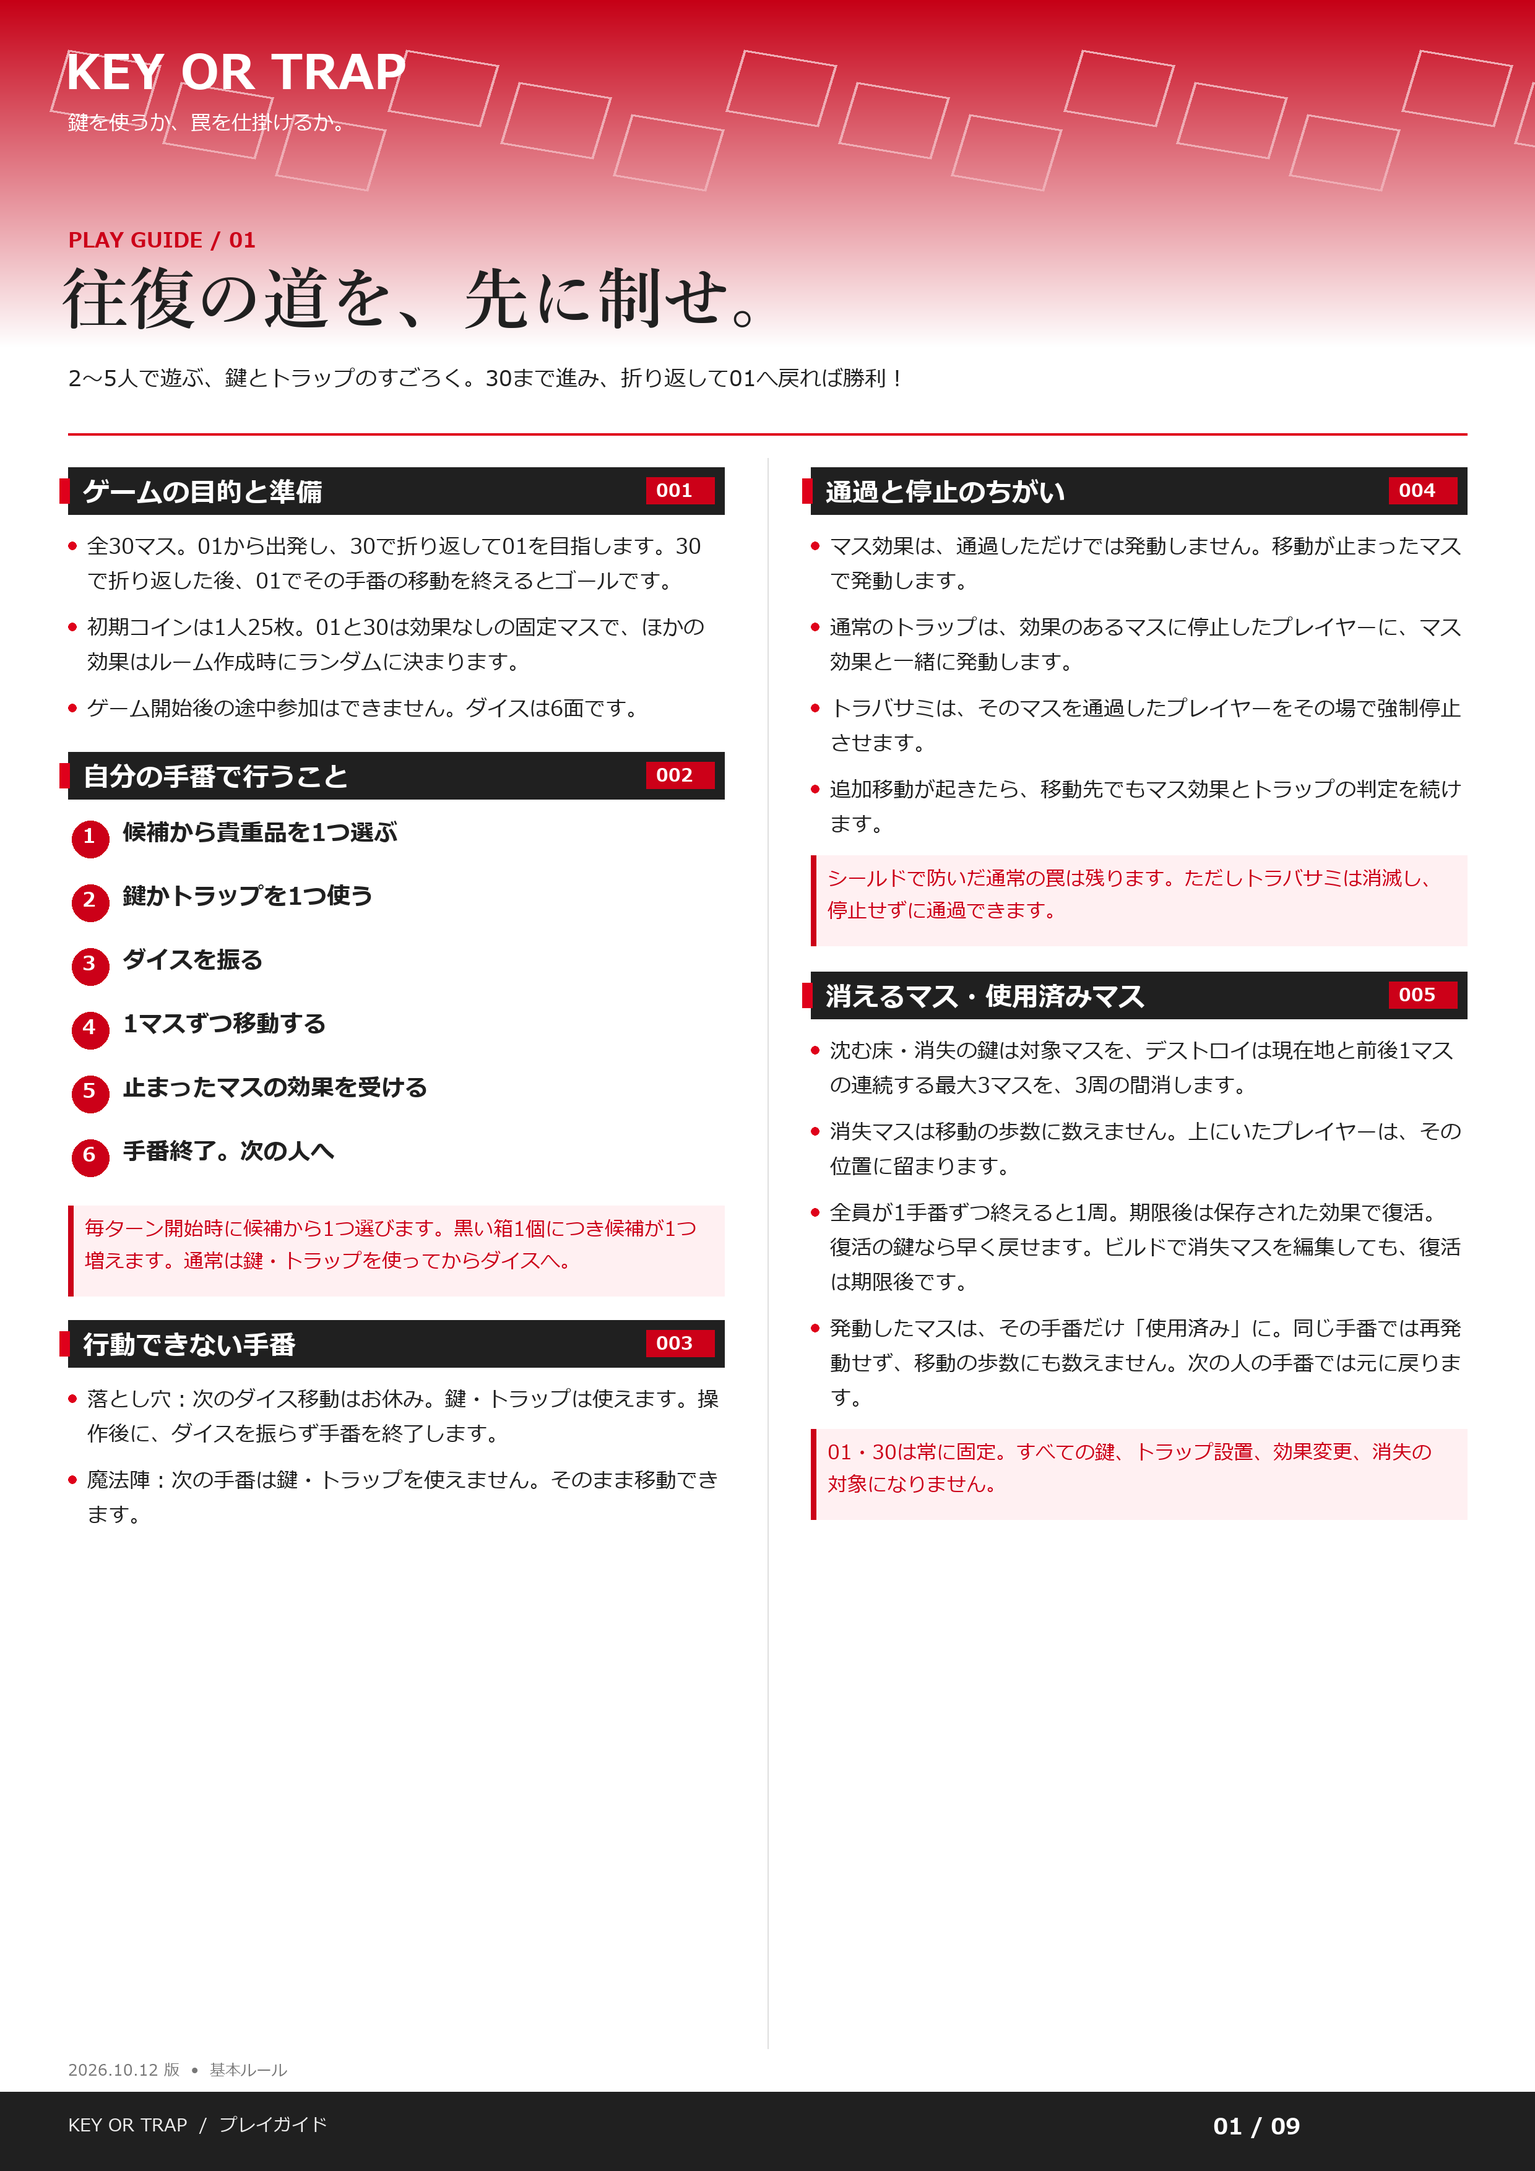
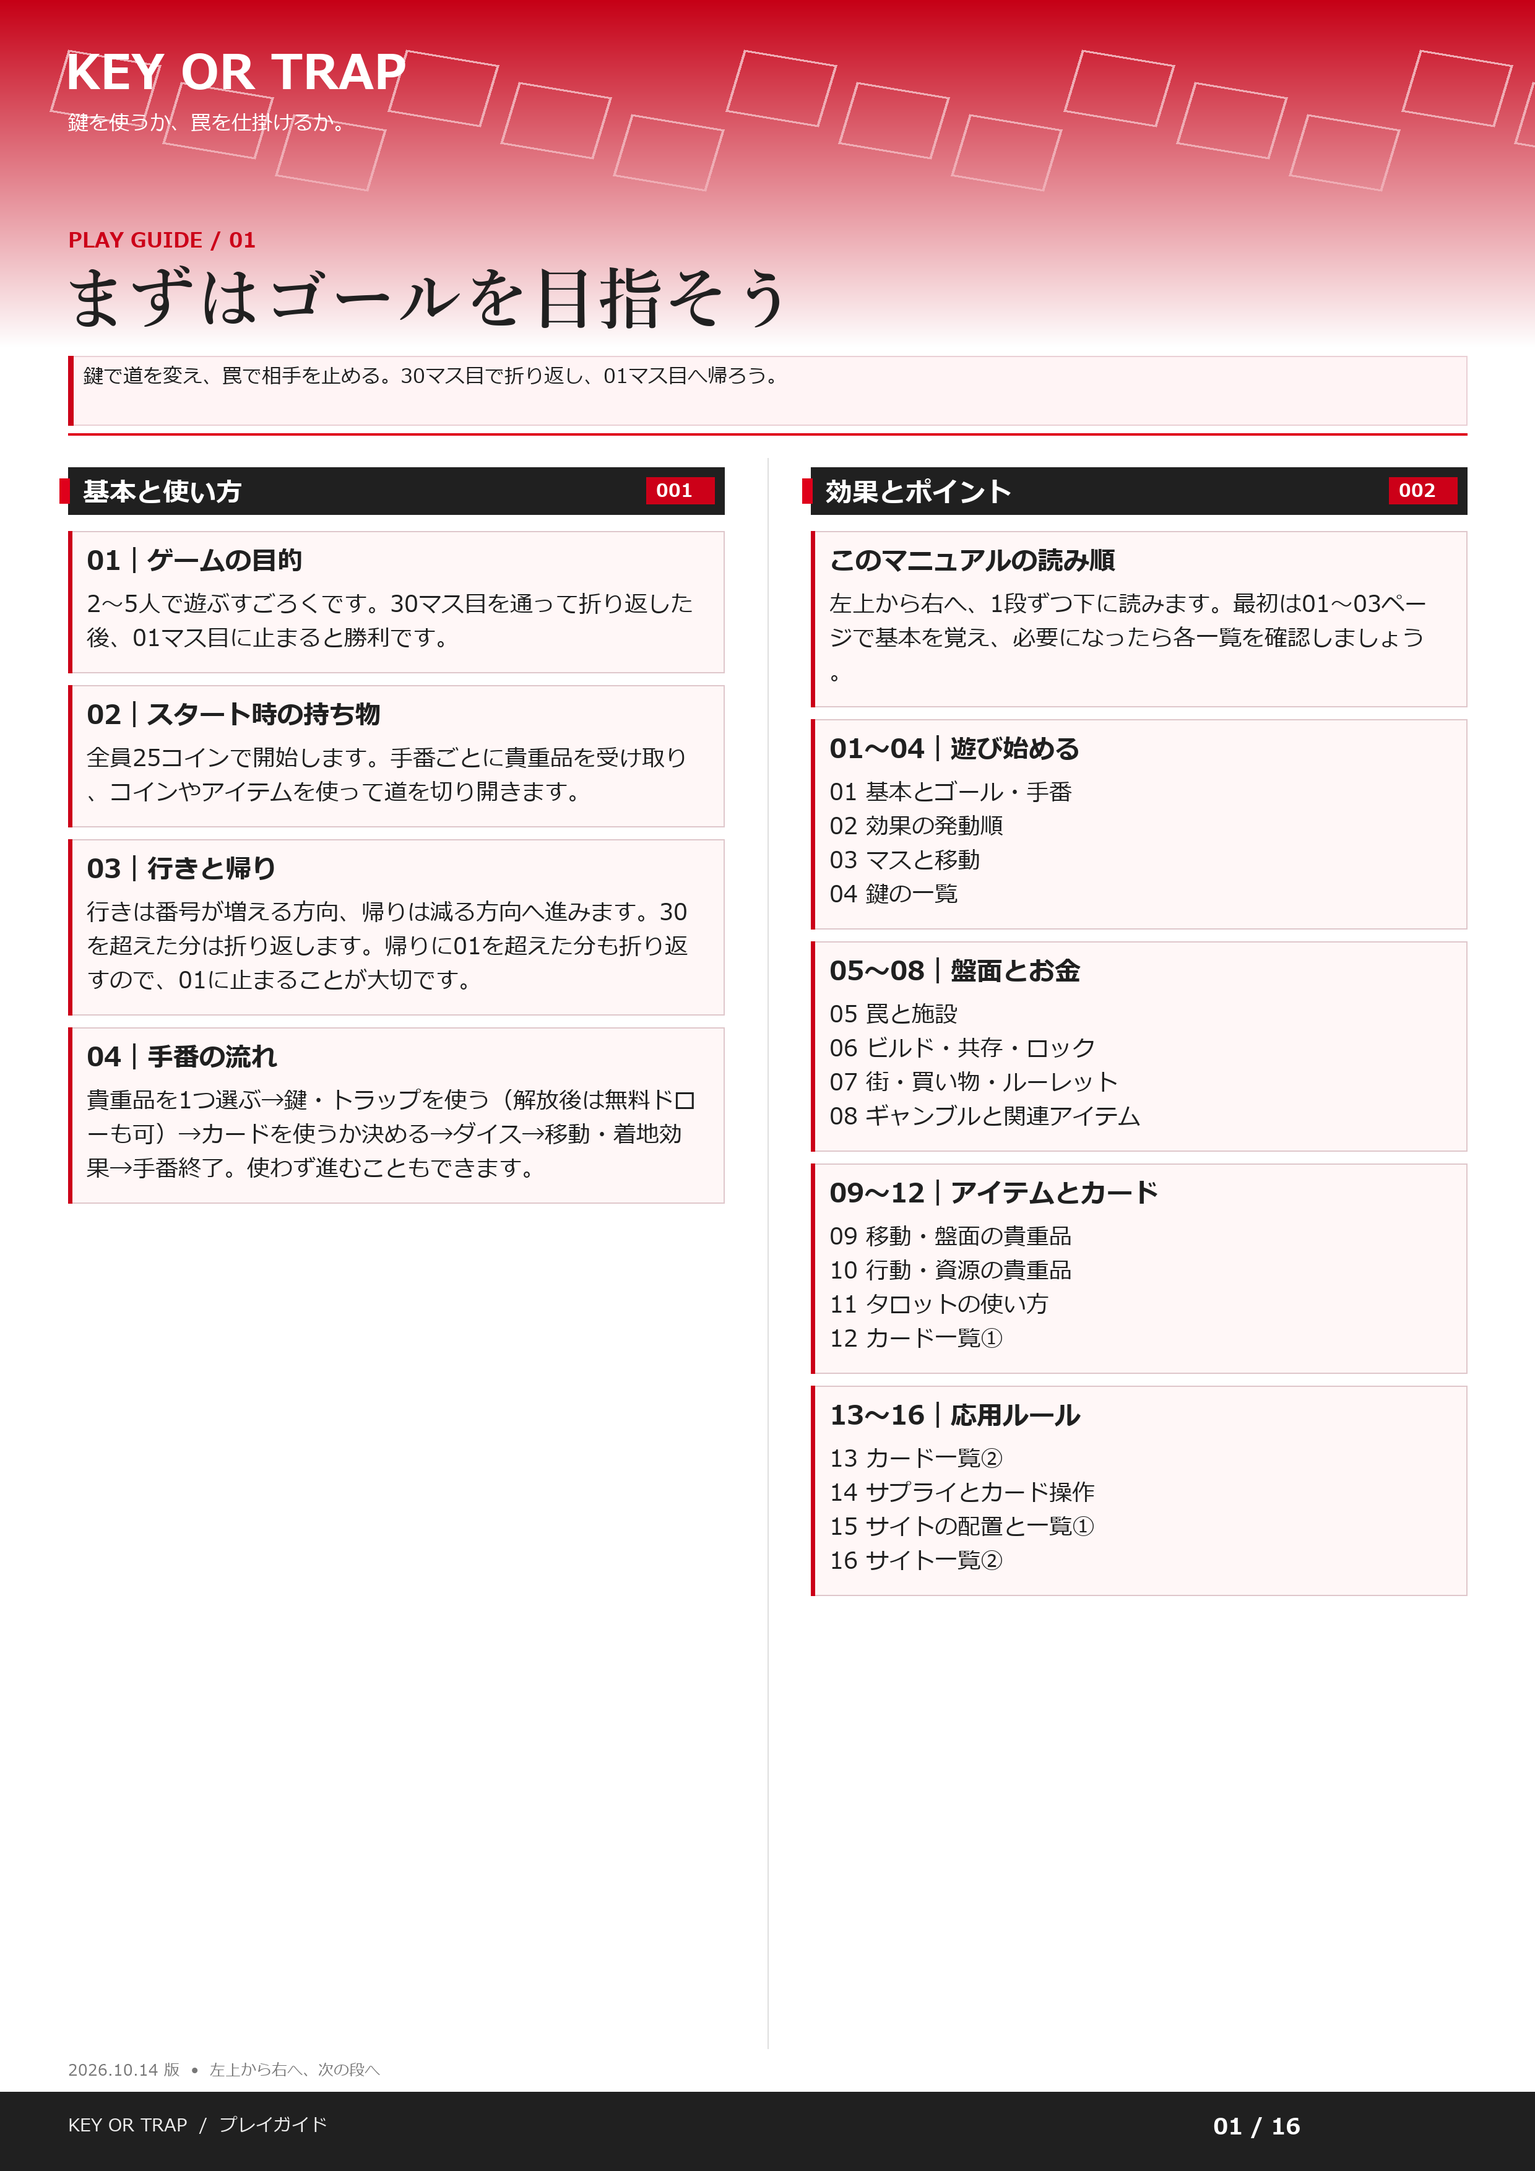
リリース予告1.4

diff --git a/KOT/manual/index.html b/KOT/manual/index.html
@@ -1,1 +1,15 @@
-<!doctype html><html lang="ja"><meta charset="utf-8"><meta name="viewport" content="width=device-width, initial-scale=1"><title>KEY OR TRAP プレイガイド</title><style>body{margin:0;background:#eee9e5;color:#222;font-family:system-ui,sans-serif}header,main{max-width:1000px;margin:auto;padding:24px}header{background:white}h1{margin:0 0 12px}nav{display:flex;gap:10px;flex-wrap:wrap}a{color:#b6001a}nav a{padding:8px;background:#fff0f2;border-radius:6px}section{margin:24px 0 40px;scroll-margin-top:16px}h2{font-size:20px}img{width:100%;height:auto;display:block;background:white;box-shadow:0 3px 15px #0002}p{line-height:1.8}</style><header><h1>KEY OR TRAP プレイガイド</h1><p>01〜03は基本編、04〜09は詳細編。画像を押すと原寸で開けます。</p><nav><a href="#page1">01 基本ルール</a><a href="#page2">02 鍵・トラップ・マス効果</a><a href="#page3">03 街とギャンブル</a><a href="#page4">04 貴重品</a><a href="#page5">05 ルーレットと購入</a><a href="#page6">06 タロットの基本</a><a href="#page7">07 カード一覧・前半</a><a href="#page8">08 カード一覧・後半</a><a href="#page9">09 固定・施設・3効果の共存</a></nav></header><main><section id="page1"><h2>01　基本ルール</h2><a href="KeyOrTrap_ルール_01.png"><img src="KeyOrTrap_ルール_01.png" alt="KOT マニュアル 01 基本ルール" loading="lazy" width="2480" height="3508"></a></section><section id="page2"><h2>02　鍵・トラップ・マス効果</h2><a href="KeyOrTrap_ルール_02.png"><img src="KeyOrTrap_ルール_02.png" alt="KOT マニュアル 02 鍵・トラップ・マス効果" loading="lazy" width="2480" height="3508"></a></section><section id="page3"><h2>03　街とギャンブル</h2><a href="KeyOrTrap_ルール_03.png"><img src="KeyOrTrap_ルール_03.png" alt="KOT マニュアル 03 街とギャンブル" loading="lazy" width="2480" height="3508"></a></section><section id="page4"><h2>04　貴重品</h2><a href="KeyOrTrap_ルール_04.png"><img src="KeyOrTrap_ルール_04.png" alt="KOT マニュアル 04 貴重品" loading="lazy" width="2480" height="3508"></a></section><section id="page5"><h2>05　ルーレットと購入</h2><a href="KeyOrTrap_ルール_05.png"><img src="KeyOrTrap_ルール_05.png" alt="KOT マニュアル 05 ルーレットと購入" loading="lazy" width="2480" height="3508"></a></section><section id="page6"><h2>06　タロットの基本</h2><a href="KeyOrTrap_ルール_06.png"><img src="KeyOrTrap_ルール_06.png" alt="KOT マニュアル 06 タロットの基本" loading="lazy" width="2480" height="3508"></a></section><section id="page7"><h2>07　カード一覧・前半</h2><a href="KeyOrTrap_ルール_07.png"><img src="KeyOrTrap_ルール_07.png" alt="KOT マニュアル 07 カード一覧・前半" loading="lazy" width="2480" height="3508"></a></section><section id="page8"><h2>08　カード一覧・後半</h2><a href="KeyOrTrap_ルール_08.png"><img src="KeyOrTrap_ルール_08.png" alt="KOT マニュアル 08 カード一覧・後半" loading="lazy" width="2480" height="3508"></a></section><section id="page9"><h2>09　固定・施設・3効果の共存</h2><a href="KeyOrTrap_ルール_09.png"><img src="KeyOrTrap_ルール_09.png" alt="KOT マニュアル 09 固定・施設・3効果の共存" loading="lazy" width="2480" height="3508"></a></section></main></html>
+<!doctype html><html lang="ja"><head><meta charset="utf-8"><meta name="viewport" content="width=device-width,initial-scale=1"><title>Key Or Trap｜次回リリース予告・プレイマニュアル</title><style>html{scroll-behavior:smooth}body{margin:0;padding:24px;background:#ede8dc;color:#26333e;font-family:Meiryo,sans-serif}h1{font-size:28px}p{line-height:1.8}nav{display:flex;flex-wrap:wrap;gap:8px;margin:24px 0}nav a{background:white;padding:8px 12px;border-radius:6px;color:#85243a;text-decoration:none}main{display:grid;grid-template-columns:repeat(4,minmax(0,1fr));gap:16px}figure{margin:0;scroll-margin-top:16px}img{width:100%;height:auto;display:block;box-shadow:0 2px 8px #0002}figcaption{font-size:13px;padding:8px 0}a:focus-visible{outline:3px solid #15868a}@media(max-width:800px){body{padding:12px}main{gap:8px}figcaption{font-size:10px}}.release-hero{background:linear-gradient(125deg,#870019,#ce1736);color:white;padding:clamp(28px,5vw,72px);border-radius:12px;max-width:1400px;margin:0 auto 24px;box-sizing:border-box}.release-kicker{font-size:13px;letter-spacing:.12em;font-weight:bold}.release-hero h1{font-size:clamp(30px,4vw,54px);margin:20px 0}.release-lead{font-size:clamp(18px,2vw,26px);line-height:1.8}.release-status{font-size:14px;color:#ffe3e9}.release-actions{display:flex;flex-wrap:wrap;gap:12px;margin-top:28px}.release-actions a{padding:14px 20px;background:white;color:#970321;text-decoration:none;border-radius:6px;font-weight:bold}.release-actions a.secondary{background:transparent;color:white;border:1px solid #ffc1cd}.release-highlights{display:grid;grid-template-columns:repeat(3,minmax(0,1fr));gap:16px;max-width:1400px;margin:0 auto 24px}.release-highlights article{background:white;padding:24px;border-top:4px solid #bd1839;border-radius:6px}.release-highlights span{font-size:12px;color:#a61c37;font-weight:bold}.release-highlights h2{font-size:20px}.release-highlights p{font-size:14px}.release-note{border-left:4px solid #bd1839;background:#fff5f6;padding:18px 24px;line-height:1.8;margin:24px auto;max-width:1400px;box-sizing:border-box}#manual{scroll-margin-top:24px}@media(max-width:750px){.release-highlights{grid-template-columns:1fr}.release-hero{border-radius:6px}}</style></head><body><header class="release-hero" aria-labelledby="release-title">
+  <div class="release-kicker">KEY OR TRAP / NEXT UPDATE</div>
+  <h1 id="release-title">次回リリース予告</h1>
+  <p class="release-lead">鍵で道を変え、罠を仕掛ける。<br>サイトとタロットで、次の一手をもっと自由に。</p>
+  <div class="release-status">公開時期は準備が整い次第お知らせします。</div>
+  <div class="release-actions"><a href="#manual">次回版のマニュアルを見る</a><a class="secondary" href="../index.html">現在公開中のゲームを遊ぶ</a></div>
+</header>
+<section class="release-highlights" aria-label="次回版の見どころ">
+  <article><span>01 / 盤面</span><h2>4マスへ広がるサイト</h2><p>マスの間に配置する24種類のサイト。鍵や罠に連動する効果、施設の産出を増やす効果などで、盤面の使い方が広がります。</p></article>
+  <article><span>02 / カード</span><h2>手札と盤面を組み直す</h2><p>覚醒は選んだ手札を完全削除。形態変化はマスの効果数とロック状態をランダムに変更。サプライでカードや札の操作も購入できます。</p></article>
+  <article><span>03 / ガイド</span><h2>16ページで遊び方を紹介</h2><p>基本から応用まで、順番に読めるマニュアルへ。効果の発動順は専用ページで説明し、アイテムは画像と効果を一緒に確認できます。</p></article>
+</section>
+<aside class="release-note">以下は次回リリース予定のルールをまとめたマニュアルです。現在公開中のゲームとは内容が異なる場合があります。</aside>
+<div id="manual"></div>
+<h1>Key Or Trap プレイマニュアル</h1><p>左上から右へ、1段ずつ下に読む16ページ・4×4のマニュアルです。画像を押すと大きく表示できます。<br>2026年10月14日更新</p><nav><a href="#page1">01 まずはゴールを目指そう</a><a href="#page2">02 効果はどの順番で発動する？</a><a href="#page3">03 マスの効果と移動</a><a href="#page4">04 鍵を選ぼう</a><a href="#page5">05 罠を仕掛け、施設を置こう</a><a href="#page6">06 ビルド・共存・ロック</a><a href="#page7">07 街で売る・買う・抽選する</a><a href="#page8">08 ギャンブルと成功率</a><a href="#page9">09 貴重品①｜移動と盤面</a><a href="#page10">10 貴重品②｜行動と資源</a><a href="#page11">11 タロットを使ってみよう</a><a href="#page12">12 タロットカード一覧①</a><a href="#page13">13 タロットカード一覧②</a><a href="#page14">14 サプライでカードを整える</a><a href="#page15">15 サイト①｜4マスへ広がる効果</a><a href="#page16">16 サイト②｜設置と施設にも効果</a></nav><main><figure id="page1"><a href="KeyOrTrap_ルール_01.png" target="_blank"><img src="KeyOrTrap_ルール_01.png" width="2480" height="3508" alt="01 まずはゴールを目指そう" loading="lazy"></a><figcaption>01 まずはゴールを目指そう</figcaption></figure><figure id="page2"><a href="KeyOrTrap_ルール_02.png" target="_blank"><img src="KeyOrTrap_ルール_02.png" width="2480" height="3508" alt="02 効果はどの順番で発動する？" loading="lazy"></a><figcaption>02 効果はどの順番で発動する？</figcaption></figure><figure id="page3"><a href="KeyOrTrap_ルール_03.png" target="_blank"><img src="KeyOrTrap_ルール_03.png" width="2480" height="3508" alt="03 マスの効果と移動" loading="lazy"></a><figcaption>03 マスの効果と移動</figcaption></figure><figure id="page4"><a href="KeyOrTrap_ルール_04.png" target="_blank"><img src="KeyOrTrap_ルール_04.png" width="2480" height="3508" alt="04 鍵を選ぼう" loading="lazy"></a><figcaption>04 鍵を選ぼう</figcaption></figure><figure id="page5"><a href="KeyOrTrap_ルール_05.png" target="_blank"><img src="KeyOrTrap_ルール_05.png" width="2480" height="3508" alt="05 罠を仕掛け、施設を置こう" loading="lazy"></a><figcaption>05 罠を仕掛け、施設を置こう</figcaption></figure><figure id="page6"><a href="KeyOrTrap_ルール_06.png" target="_blank"><img src="KeyOrTrap_ルール_06.png" width="2480" height="3508" alt="06 ビルド・共存・ロック" loading="lazy"></a><figcaption>06 ビルド・共存・ロック</figcaption></figure><figure id="page7"><a href="KeyOrTrap_ルール_07.png" target="_blank"><img src="KeyOrTrap_ルール_07.png" width="2480" height="3508" alt="07 街で売る・買う・抽選する" loading="lazy"></a><figcaption>07 街で売る・買う・抽選する</figcaption></figure><figure id="page8"><a href="KeyOrTrap_ルール_08.png" target="_blank"><img src="KeyOrTrap_ルール_08.png" width="2480" height="3508" alt="08 ギャンブルと成功率" loading="lazy"></a><figcaption>08 ギャンブルと成功率</figcaption></figure><figure id="page9"><a href="KeyOrTrap_ルール_09.png" target="_blank"><img src="KeyOrTrap_ルール_09.png" width="2480" height="3508" alt="09 貴重品①｜移動と盤面" loading="lazy"></a><figcaption>09 貴重品①｜移動と盤面</figcaption></figure><figure id="page10"><a href="KeyOrTrap_ルール_10.png" target="_blank"><img src="KeyOrTrap_ルール_10.png" width="2480" height="3508" alt="10 貴重品②｜行動と資源" loading="lazy"></a><figcaption>10 貴重品②｜行動と資源</figcaption></figure><figure id="page11"><a href="KeyOrTrap_ルール_11.png" target="_blank"><img src="KeyOrTrap_ルール_11.png" width="2480" height="3508" alt="11 タロットを使ってみよう" loading="lazy"></a><figcaption>11 タロットを使ってみよう</figcaption></figure><figure id="page12"><a href="KeyOrTrap_ルール_12.png" target="_blank"><img src="KeyOrTrap_ルール_12.png" width="2480" height="3508" alt="12 タロットカード一覧①" loading="lazy"></a><figcaption>12 タロットカード一覧①</figcaption></figure><figure id="page13"><a href="KeyOrTrap_ルール_13.png" target="_blank"><img src="KeyOrTrap_ルール_13.png" width="2480" height="3508" alt="13 タロットカード一覧②" loading="lazy"></a><figcaption>13 タロットカード一覧②</figcaption></figure><figure id="page14"><a href="KeyOrTrap_ルール_14.png" target="_blank"><img src="KeyOrTrap_ルール_14.png" width="2480" height="3508" alt="14 サプライでカードを整える" loading="lazy"></a><figcaption>14 サプライでカードを整える</figcaption></figure><figure id="page15"><a href="KeyOrTrap_ルール_15.png" target="_blank"><img src="KeyOrTrap_ルール_15.png" width="2480" height="3508" alt="15 サイト①｜4マスへ広がる効果" loading="lazy"></a><figcaption>15 サイト①｜4マスへ広がる効果</figcaption></figure><figure id="page16"><a href="KeyOrTrap_ルール_16.png" target="_blank"><img src="KeyOrTrap_ルール_16.png" width="2480" height="3508" alt="16 サイト②｜設置と施設にも効果" loading="lazy"></a><figcaption>16 サイト②｜設置と施設にも効果</figcaption></figure></main></body></html>

diff --git a/KOT/manual/README.md b/KOT/manual/README.md
@@ -1,11 +1,7 @@
-# 外部共有用プレイガイド
+# プレイマニュアル
 
-`index.html` が入口です。01〜03は既存の基本編、04〜08は番外編です。
-ゲーム内マニュアルには番外編を追加していません。
+16ページを左上から右へ4×4で配置。ゲーム内と同じ画像を使用。
 
-GitHub Pagesの公開リポジトリで `KOT/manual` にこのフォルダーを配置すると、
-`/KOT/manual/` で全8枚を続けて読めます。現在は公開前のローカル配置です。
+生成元：`docs/rules-images/render_manual.py`。文章一覧：`docs/画像マニュアル.md`。
 
-画像の更新元：`docs/rules-images/render_extra.py`。
-基本編の更新元：`docs/rules-images/render_rules.py`。
-番外編の内容は2026年10月12日時点の実装に基づきます。
+2026年10月14日更新。公開への反映・ゲームの再エクスポートは別途実施。
